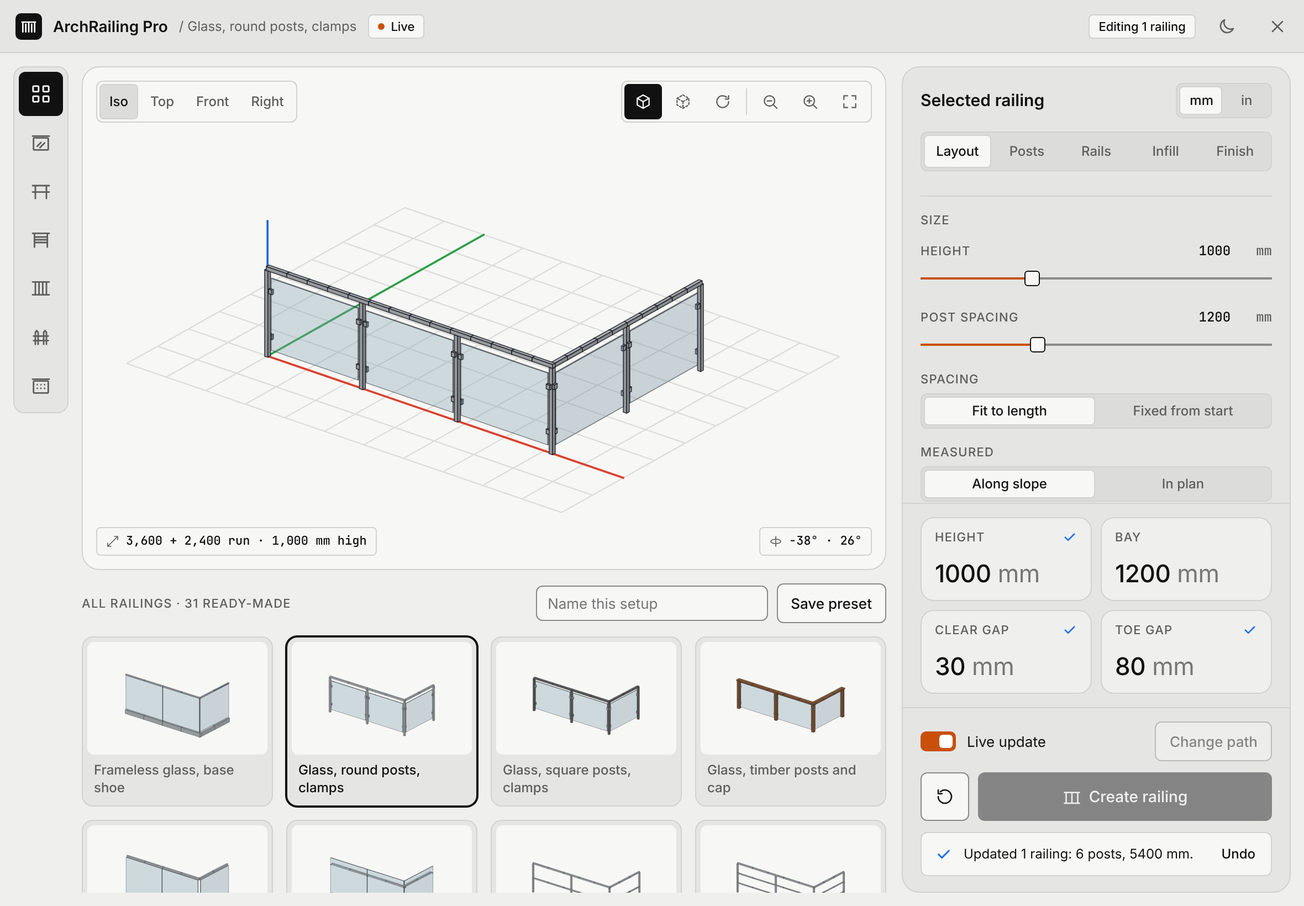
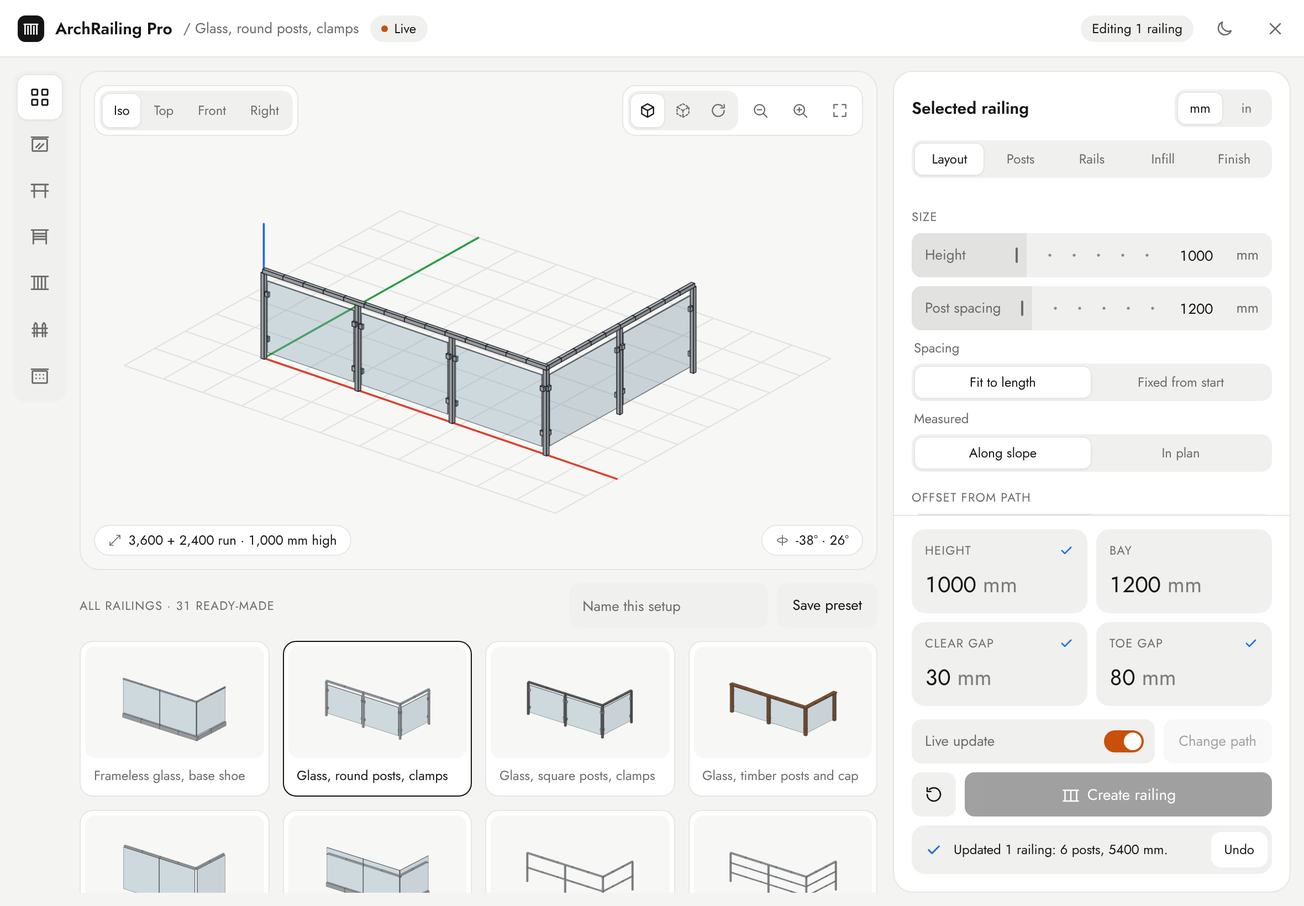
Restyle panel to Parametric Builder UI v2
White surfaces on a grey ground, borderless filled rows, Century Gothic
with Jost fallback, softer radii, one-line row sliders with editable
values, pill switches in rows, segmented wells with a raised selection,
round colour swatches, framed viewport toolbars and pill chips.

Claude-Session: https://claude.ai/code/session_018M2FVZAa4RqU1jv5ZMEc26

diff --git a/sketchup/arch_railing_pro/src/arch_railing_pro/ui/dialog.html b/sketchup/arch_railing_pro/src/arch_railing_pro/ui/dialog.html
@@ -4,41 +4,49 @@
 <meta charset="utf-8">
 <meta name="viewport" content="width=device-width,initial-scale=1">
 <title>ArchRailing Pro</title>
-<link href="https://fonts.googleapis.com/css2?family=Inter:wght@400;500;600&family=JetBrains+Mono:wght@400;500&display=swap" rel="stylesheet">
+<link href="https://fonts.googleapis.com/css2?family=Jost:wght@400;500;600&display=swap" rel="stylesheet">
 <link rel="stylesheet" href="tokens.css">
 <style>
   *,*::before,*::after{box-sizing:border-box}
   html,body{height:100%}
-  body{margin:0;background:var(--bg);color:var(--ink);font:400 13px/18px var(--sans);display:flex;flex-direction:column;overflow:hidden}
+  body{margin:0;background:var(--bg);color:var(--ink);font:400 13px/18px var(--sans);font-variant-numeric:tabular-nums;display:flex;flex-direction:column;overflow:hidden}
   button,input,select{font:inherit;color:inherit}
   button{cursor:pointer}
   :focus-visible{outline:2px solid var(--accent);outline-offset:2px}
   svg.i{width:18px;height:18px;fill:none;stroke:currentColor;stroke-width:1.7;stroke-linecap:round;stroke-linejoin:round;flex:none}
   .hide{display:none!important}
-  .eyebrow{font-size:11px;line-height:14px;font-weight:500;letter-spacing:.06em;text-transform:uppercase;color:var(--muted)}
-  .mono{font-family:var(--mono)}
+  .eyebrow{font-size:11px;line-height:14px;letter-spacing:.06em;text-transform:uppercase;color:var(--muted)}
+  .cap{font-size:12px;line-height:16px;color:var(--muted)}
+
+  /* wells: a field-filled track with a raised selected item */
+  .well{display:flex;gap:2px;padding:3px;background:var(--field);border-radius:10px}
+  .well button{flex:1;height:28px;min-width:30px;padding:0 10px;border:0;border-radius:7px;background:transparent;color:var(--muted);font-size:12px;white-space:nowrap;display:grid;place-items:center}
+  .well button:hover{color:var(--ink)}
+  .well button[aria-pressed=true],.well button[aria-selected=true]{background:var(--raised);color:var(--ink);box-shadow:var(--sel-shadow)}
+  .frame{display:flex;align-items:center;gap:4px;padding:4px;background:var(--surface);border:1px solid var(--line);border-radius:var(--r-md)}
+  .frame .ib{width:32px;height:32px;border-radius:7px}
 
   /* header */
-  .hd{flex:none;display:flex;align-items:center;gap:10px;height:48px;padding:0 6px 0 14px;background:var(--surface);border-bottom:1px solid var(--line)}
-  .mark{width:24px;height:24px;border-radius:5px;background:var(--ink);color:var(--inv);display:grid;place-items:center;flex:none}
+  .hd{flex:none;display:flex;align-items:center;gap:10px;height:52px;padding:0 8px 0 16px;background:var(--surface);border-bottom:1px solid var(--line)}
+  .mark{width:24px;height:24px;border-radius:7px;background:var(--ink);color:var(--inv);display:grid;place-items:center;flex:none}
   .mark svg{width:16px;height:16px;fill:none;stroke:currentColor;stroke-width:2;stroke-linecap:square}
-  .hd h1{margin:0;font-size:14px;line-height:20px;font-weight:600;white-space:nowrap}
-  .crumb{font-size:12px;color:var(--muted);white-space:nowrap;overflow:hidden;text-overflow:ellipsis;min-width:0}
-  .badge{display:inline-flex;align-items:center;gap:6px;height:22px;padding:0 8px;border:1px solid var(--line);border-radius:var(--r-xs);background:var(--raised);font-size:11px;font-weight:500;white-space:nowrap}
+  .hd h1{margin:0;font-size:15px;line-height:20px;font-weight:600;white-space:nowrap}
+  .crumb{color:var(--muted);white-space:nowrap;overflow:hidden;text-overflow:ellipsis;min-width:0}
+  .badge{display:inline-flex;align-items:center;gap:6px;height:24px;padding:0 10px;border-radius:12px;background:var(--field);font-size:12px;white-space:nowrap}
   .badge .dot{width:6px;height:6px;border-radius:3px;background:var(--accent)}
   .sp{flex:1}
   .ib{width:36px;height:36px;border:0;background:transparent;color:var(--muted);border-radius:var(--r-sm);display:grid;place-items:center}
-  .ib:hover{background:var(--sunken);color:var(--ink)}
+  .ib:hover{background:var(--field);color:var(--ink)}
 
-  /* body: rail | main | aside */
+  /* body: rail | main | side */
   .bd{flex:1;min-height:0;display:flex;gap:12px;padding:12px;overflow:hidden}
-  .rail{flex:none;align-self:flex-start;display:flex;flex-direction:column;gap:4px;padding:4px;background:var(--surface);border:1px solid var(--line);border-radius:var(--r-md)}
+  .rail{flex:none;align-self:flex-start;display:flex;flex-direction:column;gap:2px;padding:4px;background:var(--field);border-radius:var(--r-md)}
   .rail button{width:40px;height:40px;border:0;border-radius:var(--r-sm);background:transparent;color:var(--muted);display:grid;place-items:center}
-  .rail button:hover{background:var(--sunken);color:var(--ink)}
-  .rail button[aria-pressed=true]{background:var(--ink);color:var(--inv)}
+  .rail button:hover{color:var(--ink)}
+  .rail button[aria-pressed=true]{background:var(--raised);color:var(--ink);box-shadow:var(--sel-shadow)}
   .rail svg.i{width:20px;height:20px}
   .main{flex:1 1 560px;min-width:0;overflow-y:auto;display:flex;flex-direction:column;gap:12px;padding-right:2px}
-  .side{flex:0 0 352px;min-width:0;display:flex;flex-direction:column;background:var(--surface);border:1px solid var(--line);border-radius:var(--r-lg);overflow:hidden}
+  .side{flex:0 0 360px;min-width:0;display:flex;flex-direction:column;background:var(--surface);border:1px solid var(--line);border-radius:var(--r-lg);overflow:hidden}
 
   /* viewport */
   .vp{position:relative;background:var(--viewport);border:1px solid var(--line);border-radius:var(--r-lg);overflow:hidden;flex:none}
@@ -47,95 +55,89 @@
   .ov{position:absolute;left:12px;right:12px;display:flex;justify-content:space-between;gap:8px;flex-wrap:wrap;pointer-events:none}
   .ov.t{top:12px}.ov.b{bottom:12px;align-items:flex-end}
   .ov>*{pointer-events:auto}
-  .tb{display:flex;gap:2px;padding:2px;background:var(--raised);border:1px solid var(--line);border-radius:var(--r-sm)}
-  .tb button{height:32px;min-width:32px;padding:0 8px;border:1px solid transparent;border-radius:var(--r-xs);background:transparent;color:var(--muted);font-size:12px;font-weight:500;display:grid;place-items:center}
-  .tb button:hover{color:var(--ink)}
-  .tb button.v[aria-pressed=true]{background:var(--sunken);border-color:var(--line);color:var(--ink)}
-  .tb button.t[aria-pressed=true]{background:var(--ink);color:var(--inv)}
-  .tb svg.i{width:16px;height:16px}
-  .tb .div{width:1px;margin:4px 2px;background:var(--line)}
-  .chip{display:inline-flex;align-items:center;gap:6px;height:26px;padding:0 8px;background:var(--raised);border:1px solid var(--line);border-radius:var(--r-xs);font:500 11px/1 var(--mono);color:var(--ink);white-space:nowrap}
+  .vp .well button{height:30px;flex:none}
+  .vp .well button.t{width:30px;min-width:30px;padding:0}
+  .vp .well svg.i,.frame .ib svg.i{width:16px;height:16px}
+  .chip{display:inline-flex;align-items:center;gap:6px;height:28px;padding:0 12px;background:var(--surface);border:1px solid var(--line);border-radius:14px;font-size:12px;color:var(--ink);white-space:nowrap}
   .chip svg.i{width:12px;height:12px;color:var(--muted)}
 
   /* presets */
   .ph{display:flex;align-items:center;gap:8px;flex-wrap:wrap}
   .ph .eyebrow{flex:1;min-width:120px}
-  .fld{height:32px;padding:0 10px;background:var(--raised);border:1px solid var(--strong);border-radius:var(--r-sm);min-width:0}
-  .fld:hover{border-color:var(--ink)}
+  .fld{height:var(--row);padding:0 12px;background:var(--field);border:0;border-radius:var(--r-sm);min-width:0}
+  .fld::placeholder{color:var(--muted)}
   .tiles{display:grid;grid-template-columns:repeat(auto-fill,minmax(150px,1fr));gap:12px}
-  .tile{display:flex;flex-direction:column;gap:6px;padding:4px 4px 8px;background:var(--surface);border:1px solid var(--line);border-radius:var(--r-md);color:var(--muted);font-size:12px;font-weight:500;text-align:left;min-width:0}
+  .tile{display:flex;flex-direction:column;gap:8px;padding:4px 4px 10px;background:var(--surface);border:1px solid var(--line);border-radius:var(--r-md);color:var(--muted);font-size:12px;text-align:left;min-width:0}
   .tile:hover{color:var(--ink);border-color:var(--strong)}
-  .tile[aria-pressed=true]{border-color:var(--ink);box-shadow:0 0 0 1px var(--ink);color:var(--ink)}
+  .tile[aria-pressed=true]{border-color:var(--ink);color:var(--ink)}
   .tile svg{display:block;width:100%;height:auto;aspect-ratio:16/10;background:var(--viewport);border-radius:var(--r-sm)}
-  .tile span{padding:0 6px;line-height:16px}
+  .tile span{padding:0 8px;line-height:16px}
 
   /* side panel */
-  .sh{flex:none;display:flex;align-items:center;justify-content:space-between;gap:12px;padding:14px 16px 12px}
+  .sh{flex:none;display:flex;align-items:center;justify-content:space-between;gap:12px;padding:16px 16px 12px}
   .sh h2{margin:0;font-size:15px;line-height:20px;font-weight:600;white-space:nowrap;overflow:hidden;text-overflow:ellipsis}
-  .seg{display:flex;gap:2px;padding:2px;background:var(--sunken);border:1px solid var(--line);border-radius:var(--r-sm)}
-  .seg button{flex:1;height:26px;min-width:38px;padding:0 9px;border:1px solid transparent;border-radius:var(--r-xs);background:transparent;color:var(--muted);font-size:12px;font-weight:500;white-space:nowrap}
-  .seg button:hover{color:var(--ink)}
-  .seg button[aria-pressed=true],.seg button[aria-selected=true]{background:var(--raised);border-color:var(--line);color:var(--ink)}
-  .tabs{flex:none;margin:0 16px 4px}
-  .tabs button{height:30px}
+  .sh .well button{flex:none;min-width:40px}
+  .tabs{flex:none;margin:0 16px 8px}
   .pane{flex:1;min-height:0;overflow-y:auto;padding:4px 16px 8px}
-  .grp{margin:14px 0 10px;padding-top:14px;border-top:1px solid var(--line)}
-  .grp:first-child{margin-top:6px;padding-top:0;border-top:0}
-  .rows{display:flex;flex-direction:column;gap:14px}
+  .grp{margin:16px 0 8px}
+  .grp:first-child{margin-top:4px}
+  .rows{display:flex;flex-direction:column;gap:8px}
 
-  .row{display:flex;flex-direction:column;gap:4px}
-  .row .top{display:flex;justify-content:space-between;align-items:center;gap:8px}
-  .row .val{display:flex;align-items:center;gap:3px;font:500 12px/16px var(--mono)}
-  .row .val input{width:76px;height:22px;padding:0 4px;text-align:right;background:transparent;border:1px solid transparent;border-radius:var(--r-xs);font:500 12px/16px var(--mono)}
-  .row .val input:hover{border-color:var(--line)}
-  .row .val input:focus{border-color:var(--strong);background:var(--raised);outline:0}
-  .row .val i{font-style:normal;color:var(--muted)}
-  .sl{position:relative;display:block;height:20px}
-  .sl .tr{position:absolute;left:0;right:0;top:9px;height:2px;background:var(--strong)}
-  .sl .fi{position:absolute;left:0;top:9px;height:2px;background:var(--accent)}
-  .sl .th{position:absolute;top:3px;width:14px;height:14px;margin-left:-7px;border-radius:3px;background:var(--raised);border:1px solid var(--ink)}
-  .sl input{position:absolute;inset:0;width:100%;height:100%;margin:0;opacity:0;cursor:pointer}
-  .sl:focus-within .th{outline:2px solid var(--accent);outline-offset:2px}
+  /* row slider: one 40px filled row, label left, value right, the fill is the slider */
+  .rs{position:relative;height:var(--row);border-radius:var(--r-sm);background:var(--field);overflow:hidden;cursor:ew-resize}
+  .rs:focus-within{box-shadow:0 0 0 2px var(--accent)}
+  .rs .fi{position:absolute;left:0;top:0;bottom:0;background:var(--field-strong)}
+  .rs .dots{position:absolute;right:96px;top:18px;height:4px;background-image:radial-gradient(circle,var(--strong) 1.1px,transparent 1.5px);background-size:22px 4px;background-repeat:repeat-x}
+  .rs .hb{position:absolute;top:13px;bottom:13px;width:2px;margin-left:-10px;border-radius:1px;background:var(--muted)}
+  .rs label{position:absolute;left:12px;top:11px;color:var(--muted);pointer-events:none;white-space:nowrap;max-width:60%;overflow:hidden;text-overflow:ellipsis}
+  .rs input[type=range]{position:absolute;inset:0;width:100%;height:100%;margin:0;opacity:0;cursor:ew-resize}
+  .rs .val{position:absolute;right:6px;top:4px;height:32px;display:flex;align-items:center;gap:2px;z-index:1}
+  .rs .val input{width:64px;height:28px;padding:0 4px;text-align:right;background:transparent;border:0;border-radius:7px;font-variant-numeric:tabular-nums}
+  .rs .val input:hover{background:var(--surface)}
+  .rs .val input:focus{background:var(--surface);outline:0}
+  .rs .val i{font-style:normal;color:var(--muted);padding-right:6px}
 
-  .opts{display:flex;flex-wrap:wrap;gap:6px 16px}
-  .sw{display:flex;align-items:center;gap:10px;height:28px;padding:0;border:0;background:transparent;font-size:13px;color:var(--ink);text-align:left}
-  .sw .k{position:relative;flex:none;width:32px;height:18px;border-radius:5px;background:var(--sunken);border:1px solid var(--strong)}
-  .sw .k::after{content:"";position:absolute;top:2px;left:2px;width:12px;height:12px;border-radius:3px;background:var(--muted);transition:left .12s}
-  .sw[aria-checked=true] .k{background:var(--accent);border-color:var(--accent)}
-  .sw[aria-checked=true] .k::after{left:16px;background:var(--accent-ink)}
+  /* switch rows, choice wells, swatch and select rows */
+  .opts{display:grid;grid-template-columns:repeat(2,minmax(0,1fr));gap:8px}
+  .sw{display:flex;align-items:center;justify-content:space-between;gap:8px;height:var(--row);padding:0 10px 0 12px;border:0;border-radius:var(--r-sm);background:var(--field);color:var(--muted);text-align:left;min-width:0}
+  .sw:hover{color:var(--ink)}
+  .sw .k{position:relative;flex:none;width:36px;height:20px;border-radius:10px;background:var(--sunken)}
+  .sw .k::after{content:"";position:absolute;top:2px;left:2px;width:16px;height:16px;border-radius:8px;background:var(--strong);transition:left .12s}
+  .sw[aria-checked=true] .k{background:var(--accent)}
+  .sw[aria-checked=true] .k::after{left:18px;background:var(--accent-ink)}
   .field{display:flex;flex-direction:column;gap:6px}
-  .field select{height:32px;padding:0 8px;background:var(--raised);border:1px solid var(--strong);border-radius:var(--r-sm)}
-  .sws{display:grid;grid-template-columns:repeat(5,minmax(0,1fr));gap:8px}
-  .swc{display:flex;flex-direction:column;align-items:center;gap:4px;font-size:11px;color:var(--muted)}
-  .swc label{position:relative;display:block;width:100%;height:32px;padding:3px;border:1px solid var(--line);border-radius:var(--r-sm);background:var(--raised);cursor:pointer}
-  .swc label:hover{border-color:var(--ink)}
-  .swc label span{display:block;width:100%;height:100%;border-radius:3px}
-  .swc input{position:absolute;inset:0;opacity:0;width:100%;height:100%;cursor:pointer}
+  .field>.cap{padding-left:2px}
+  .rowf{display:flex;align-items:center;justify-content:space-between;gap:8px;height:var(--row);padding:0 5px 0 12px;border-radius:var(--r-sm);background:var(--field);color:var(--muted)}
+  .rowf select{max-width:62%;height:30px;padding:0 6px;border:0;border-radius:7px;background:transparent;color:var(--ink);text-align:right}
+  .rowf select:hover{background:var(--surface)}
+  .swr{position:relative;width:30px;height:30px;padding:3px;border-radius:15px;border:2px solid var(--line);cursor:pointer;flex:none}
+  .swr:hover{border-color:var(--ink)}
+  .swr span{display:block;width:100%;height:100%;border-radius:50%}
+  .swr input{position:absolute;inset:0;opacity:0;width:100%;height:100%;cursor:pointer}
 
-  /* checks */
-  .stats{flex:none;display:grid;grid-template-columns:repeat(2,minmax(0,1fr));gap:8px;padding:12px 16px;border-top:1px solid var(--line)}
-  .card{display:flex;flex-direction:column;justify-content:space-between;gap:10px;min-height:76px;padding:10px 12px;background:var(--bg);border:1px solid var(--line);border-radius:12px;min-width:0}
+  /* readout cards */
+  .stats{flex:none;display:grid;grid-template-columns:repeat(2,minmax(0,1fr));gap:8px;padding:12px 16px 0;border-top:1px solid var(--line)}
+  .card{display:flex;flex-direction:column;justify-content:space-between;gap:12px;min-height:76px;padding:12px;background:var(--field);border-radius:var(--r-md);min-width:0}
   .card .h{display:flex;justify-content:space-between;align-items:flex-start;gap:6px}
-  .card .n{font-size:22px;line-height:28px;font-weight:500;letter-spacing:-.01em;white-space:nowrap;overflow:hidden;text-overflow:ellipsis}
-  .card .n i{font-style:normal;font-weight:400;color:var(--faint)}
+  .card .n{font-size:20px;line-height:26px;white-space:nowrap;overflow:hidden;text-overflow:ellipsis}
+  .card .n i{font-style:normal;color:var(--faint)}
   .card svg{width:14px;height:14px;fill:none;stroke-width:2.3;stroke-linecap:round;stroke-linejoin:round;flex:none}
   .card .ok{stroke:var(--ok)}.card .wn{stroke:var(--warn)}
 
   /* actions */
-  .act{flex:none;display:flex;flex-direction:column;gap:10px;padding:12px 16px 14px;border-top:1px solid var(--line)}
+  .act{flex:none;display:flex;flex-direction:column;gap:8px;padding:12px 16px 16px}
   .act .r{display:flex;gap:8px;align-items:center}
-  .btn{height:36px;padding:0 12px;border:1px solid var(--strong);border-radius:var(--r-sm);background:var(--raised);color:var(--ink);font-size:13px;font-weight:500;display:inline-flex;align-items:center;justify-content:center;gap:6px;white-space:nowrap}
-  .btn:hover{border-color:var(--ink)}
-  .btn:disabled{opacity:.45;pointer-events:none}
-  .btn.pri{flex:1;height:44px;border:0;background:var(--ink);color:var(--inv);font-size:14px}
-  .btn.pri:hover{opacity:.88}
-  .btn.sq{width:44px;height:44px;padding:0;flex:none}
-  .btn.f1{flex:1}
-  .toast{display:flex;align-items:center;gap:10px;min-height:40px;padding:4px 4px 4px 12px;background:var(--raised);border:1px solid var(--line);border-radius:var(--r-sm);font-size:12px;line-height:16px}
+  .act .sw{flex:1;white-space:nowrap}
+  .btn{height:var(--row);padding:0 14px;border:0;border-radius:var(--r-sm);background:var(--field);color:var(--ink);display:inline-flex;align-items:center;justify-content:center;gap:6px;white-space:nowrap}
+  .btn:hover{background:var(--field-strong)}
+  .btn:disabled{opacity:.4;pointer-events:none}
+  .btn.pri{flex:1;background:var(--ink);color:var(--inv);font-size:14px}
+  .btn.pri:hover{opacity:.86;background:var(--ink)}
+  .btn.sq{width:var(--row);padding:0;flex:none}
+  .toast{display:flex;align-items:center;gap:10px;min-height:44px;padding:4px 4px 4px 12px;background:var(--field);border-radius:var(--r-md);font-size:12px;line-height:16px}
   .toast svg{width:16px;height:16px;fill:none;stroke-width:2.3;stroke-linecap:round;stroke-linejoin:round;flex:none}
   .toast .msg{flex:1;min-width:0}
-  .toast .u{height:28px;padding:0 10px;border:0;border-radius:var(--r-sm);background:transparent;font-size:12px;font-weight:500}
-  .toast .u:hover{background:var(--sunken)}
+  .toast .u{height:32px;padding:0 12px;border:0;border-radius:var(--r-sm);background:var(--surface);font-size:12px}
 
   @media (max-width:760px){
     body{overflow:auto;height:auto}
@@ -168,15 +170,15 @@
     <section class="vp" aria-label="Live preview">
       <svg class="scene" id="scene" viewBox="0 0 640 400" role="img" aria-label="3D preview of the railing, drag to orbit"></svg>
       <div class="ov t">
-        <div class="tb" role="group" aria-label="Standard views" id="views"></div>
-        <div class="tb" role="group" aria-label="Display">
+        <div class="frame"><div class="well" role="group" aria-label="Standard views" id="views"></div></div>
+        <div class="frame"><div class="well" role="group" aria-label="Display">
           <button class="t" type="button" id="tg-edges" aria-pressed="true" aria-label="Edges" title="Edges"><svg class="i" viewBox="0 0 24 24"><path d="M12 3l8 4.5v9L12 21l-8-4.5v-9z"/><path d="M12 12l8-4.5M12 12v9M12 12L4 7.5"/></svg></button>
           <button class="t" type="button" id="tg-xray" aria-pressed="false" aria-label="X-ray" title="X-ray"><svg class="i" viewBox="0 0 24 24" stroke-dasharray="2.5 2.5"><path d="M12 3l8 4.5v9L12 21l-8-4.5v-9z"/><path d="M12 12l8-4.5M12 12v9M12 12L4 7.5"/></svg></button>
           <button class="t" type="button" id="tg-spin" aria-pressed="false" aria-label="Auto-rotate" title="Auto-rotate"><svg class="i" viewBox="0 0 24 24"><path d="M20 12a8 8 0 1 1-2.6-5.9"/><path d="M20 4v4.5h-4.5"/></svg></button>
-          <span class="div" aria-hidden="true"></span>
-          <button type="button" id="z-out" aria-label="Zoom out" title="Zoom out"><svg class="i" viewBox="0 0 24 24"><circle cx="11" cy="11" r="7"/><path d="M8 11h6M16.5 16.5L21 21"/></svg></button>
-          <button type="button" id="z-in" aria-label="Zoom in" title="Zoom in"><svg class="i" viewBox="0 0 24 24"><circle cx="11" cy="11" r="7"/><path d="M8 11h6M11 8v6M16.5 16.5L21 21"/></svg></button>
-          <button type="button" id="z-fit" aria-label="Zoom to fit" title="Zoom to fit"><svg class="i" viewBox="0 0 24 24"><path d="M4 9V4h5M20 9V4h-5M4 15v5h5M20 15v5h-5"/></svg></button>
+        </div>
+          <button class="ib" type="button" id="z-out" aria-label="Zoom out" title="Zoom out"><svg class="i" viewBox="0 0 24 24"><circle cx="11" cy="11" r="7"/><path d="M8 11h6M16.5 16.5L21 21"/></svg></button>
+          <button class="ib" type="button" id="z-in" aria-label="Zoom in" title="Zoom in"><svg class="i" viewBox="0 0 24 24"><circle cx="11" cy="11" r="7"/><path d="M8 11h6M11 8v6M16.5 16.5L21 21"/></svg></button>
+          <button class="ib" type="button" id="z-fit" aria-label="Zoom to fit" title="Zoom to fit"><svg class="i" viewBox="0 0 24 24"><path d="M4 9V4h5M20 9V4h-5M4 15v5h5M20 15v5h-5"/></svg></button>
         </div>
       </div>
       <div class="ov b">
@@ -197,18 +199,17 @@
   <aside class="side" aria-label="Parameters">
     <div class="sh">
       <h2 id="ptitle2">Railing</h2>
-      <div class="seg" role="group" aria-label="Units">
+      <div class="well" role="group" aria-label="Units">
         <button type="button" id="u-mm" aria-pressed="true">mm</button>
         <button type="button" id="u-in" aria-pressed="false">in</button>
       </div>
     </div>
-    <div class="seg tabs" role="tablist" id="tabs"></div>
+    <div class="well tabs" role="tablist" id="tabs"></div>
     <div class="pane" id="pane"></div>
     <div class="stats" id="stats"></div>
     <div class="act">
       <div class="r">
-        <button type="button" class="sw" role="switch" id="live" aria-checked="true"><span class="k" aria-hidden="true"></span>Live update</button>
-        <span class="sp"></span>
+        <button type="button" class="sw" role="switch" id="live" aria-checked="true">Live update<span class="k" aria-hidden="true"></span></button>
         <button class="btn" type="button" id="b-path" title="Select one railing and its new edges">Change path</button>
       </div>
       <div class="r">

diff --git a/sketchup/arch_railing_pro/src/arch_railing_pro/ui/dialog.js b/sketchup/arch_railing_pro/src/arch_railing_pro/ui/dialog.js
@@ -155,20 +155,20 @@
   function itemHtml(f) {
     var id = 'f-' + f.k;
     if (f.t === 'num') {
-      return '<div class="row" data-f="' + f.k + '"><div class="top"><label class="eyebrow" for="' + id + '-n">' + esc(f.l) + '</label>' +
-        '<span class="val"><input id="' + id + '-n" type="number" step="any" inputmode="decimal"><i data-unit="' + f.k + '"></i></span></div>' +
-        '<span class="sl"><span class="tr"></span><span class="fi"></span><span class="th"></span>' +
-        '<input id="' + id + '" type="range" min="' + f.r[0] + '" max="' + f.r[1] + '" step="' + f.r[2] + '" aria-label="' + esc(f.l) + '"></span></div>';
+      return '<div class="rs" data-f="' + f.k + '"><span class="fi"></span><span class="dots"></span><span class="hb"></span>' +
+        '<label for="' + id + '">' + esc(f.l) + '</label>' +
+        '<input id="' + id + '" type="range" min="' + f.r[0] + '" max="' + f.r[1] + '" step="' + f.r[2] + '">' +
+        '<span class="val"><input id="' + id + '-n" type="number" step="any" inputmode="decimal" aria-label="' + esc(f.l) + ' value"><i data-unit="' + f.k + '"></i></span></div>';
     }
-    if (f.t === 'bool') return '<button type="button" class="sw" role="switch" id="' + id + '" data-f="' + f.k + '" aria-checked="false"><span class="k" aria-hidden="true"></span>' + esc(f.l) + '</button>';
+    if (f.t === 'bool') return '<button type="button" class="sw" role="switch" id="' + id + '" data-f="' + f.k + '" aria-checked="false">' + esc(f.l) + '<span class="k" aria-hidden="true"></span></button>';
     if (f.t === 'seg') {
-      return '<div class="field" data-f="' + f.k + '"><span class="eyebrow">' + esc(f.l) + '</span><div class="seg" role="group" aria-label="' + esc(f.l) + '" id="' + id + '">' +
+      return '<div class="field" data-f="' + f.k + '"><span class="cap">' + esc(f.l) + '</span><div class="well" role="group" aria-label="' + esc(f.l) + '" id="' + id + '">' +
         f.o.map(function (o) { return '<button type="button" data-v="' + o[0] + '" aria-pressed="false">' + esc(o[1]) + '</button>'; }).join('') + '</div></div>';
     }
     if (f.t === 'color') {
-      return '<div class="swc" data-f="' + f.k + '"><label title="' + esc(f.l) + '"><span id="' + id + '-s"></span><input type="color" id="' + id + '" aria-label="' + esc(f.l) + ' colour"></label>' + esc(f.l) + '</div>';
+      return '<div class="rowf" data-f="' + f.k + '"><span>' + esc(f.l) + '</span><label class="swr" title="' + esc(f.l) + '"><span id="' + id + '-s"></span><input type="color" id="' + id + '" aria-label="' + esc(f.l) + ' colour"></label></div>';
     }
-    return '<label class="field" data-f="' + f.k + '"><span class="eyebrow">' + esc(f.l) + '</span><select id="' + id + '" data-comp="1"></select></label>';
+    return '<label class="rowf" data-f="' + f.k + '"><span>' + esc(f.l) + '</span><select id="' + id + '" data-comp="1"></select></label>';
   }
 
   // Consecutive switches and colour swatches share one wrapping row.
@@ -176,13 +176,13 @@
     var out = '', group = null, buf = [];
     function flush() {
       if (!buf.length) return;
-      out += group === 'bool' ? '<div class="opts">' + buf.join('') + '</div>' : group === 'color' ? '<div class="sws">' + buf.join('') + '</div>' : buf.join('');
+      out += group === 'bool' ? '<div class="opts">' + buf.join('') + '</div>' : buf.join('');
       buf = [];
     }
     out += '<div class="rows">';
     t.items.forEach(function (it, i) {
       if (it.g) { flush(); group = null; out += '</div><p class="eyebrow grp" data-g="' + t.id + i + '">' + esc(it.g) + '</p><div class="rows">'; return; }
-      var kind = it.t === 'bool' || it.t === 'color' ? it.t : 'other';
+      var kind = it.t === 'bool' ? 'bool' : 'other';
       if (kind !== group) { flush(); group = kind; }
       buf.push(itemHtml(it));
     });
@@ -243,9 +243,10 @@
         var lo = f.r[0], hi = f.r[1];
         el.value = clamp(v, lo, hi);
         var pct = (clamp(v, lo, hi) - lo) / (hi - lo) * 100;
-        var sl = el.parentNode;
-        sl.querySelector('.fi').style.width = pct + '%';
-        sl.querySelector('.th').style.left = pct + '%';
+        var rs = el.parentNode;
+        rs.querySelector('.fi').style.width = pct + '%';
+        rs.querySelector('.hb').style.left = pct + '%';
+        rs.querySelector('.dots').style.left = 'calc(max(' + pct + '%, 96px) + 10px)';
         var n = $('f-' + k + '-n');
         if (document.activeElement !== n) n.value = shown(f, v);
         document.querySelector('[data-unit="' + k + '"]').textContent = unitOf(f);

diff --git a/sketchup/arch_railing_pro/src/arch_railing_pro/ui/tokens.css b/sketchup/arch_railing_pro/src/arch_railing_pro/ui/tokens.css
@@ -1,31 +1,29 @@
-/* Parametric Builder UI - tokens. Light by default, dark from the system or the header toggle. */
+/* Parametric Builder UI v2 - tokens. Light by default, dark from the system or the header toggle. */
 :root{
-  --page:#e9e9e8;--bg:#efefee;--surface:#e5e5e4;--raised:#f7f7f6;--sunken:#dcdcdb;
-  --line:#d2d2d0;--strong:#8a8a87;--ink:#111111;--muted:#5e5e5c;--faint:#767673;--inv:#ffffff;
-  --accent:#c9500a;--accent-ink:#ffffff;--accent-soft:#f6dccb;
+  --page:#ebebea;--bg:#f4f4f3;--surface:#ffffff;--field:#f0f0ef;--field-strong:#e2e2e0;--raised:#ffffff;--sunken:#e9e9e7;
+  --line:#e6e6e4;--strong:#8a8a87;--ink:#141414;--muted:#6b6b69;--faint:#7c7c79;--inv:#ffffff;
+  --accent:#c9500a;--accent-ink:#ffffff;
   --ok:#1f6feb;--warn:#9a6700;--danger:#c2261c;
-  --viewport:#f7f7f6;--edge:#1b1f24;--grid:#dcdcda;
+  --viewport:#f7f7f6;--edge:#1b1f24;--grid:#e2e2e0;
   --axis-x:#d9412e;--axis-y:#2e9e48;--axis-z:#2266d6;
-  --sans:Inter,system-ui,-apple-system,"Segoe UI",sans-serif;
-  --mono:"JetBrains Mono",ui-monospace,Menlo,Consolas,monospace;
-  --r-xs:4px;--r-sm:6px;--r-md:10px;--r-lg:16px;
+  --sel-shadow:0 0 0 1px #e6e6e4,0 1px 2px rgba(20,20,20,.08);
+  --sans:"Century Gothic",CenturyGothic,Jost,"Avenir Next",system-ui,sans-serif;
+  --r-xs:6px;--r-sm:9px;--r-md:12px;--r-lg:18px;--row:40px;--row-sm:32px;
   color-scheme:light;
 }
 @media (prefers-color-scheme:dark){
   :root:not([data-theme="light"]){
-    --page:#0a0a0b;--bg:#111112;--surface:#1b1b1d;--raised:#252527;--sunken:#141415;
-    --line:#2d2d30;--strong:#737378;--ink:#f2f2f0;--muted:#a6a6a3;--faint:#85857f;--inv:#111111;
-    --accent:#ff8a3d;--accent-ink:#111111;--accent-soft:#3a2416;
-    --ok:#5aa2ff;--warn:#f2c14e;--danger:#ff6b5e;
-    --viewport:#161618;--edge:#0a0a0b;--grid:#2a2a2e;
+    --page:#0b0b0c;--bg:#141415;--surface:#1f1f21;--field:#2a2a2c;--field-strong:#38383b;--raised:#404044;--sunken:#18181a;
+    --line:#2c2c2f;--strong:#76767a;--ink:#f1f1ef;--muted:#a1a1a0;--faint:#88888a;--inv:#141414;
+    --accent:#ff8a3d;--accent-ink:#141414;--ok:#5aa2ff;--warn:#f2c14e;--danger:#ff6b5e;
+    --viewport:#18181a;--edge:#0a0a0b;--grid:#28282b;--sel-shadow:0 1px 2px rgba(0,0,0,.4);
     color-scheme:dark;
   }
 }
 :root[data-theme="dark"]{
-  --page:#0a0a0b;--bg:#111112;--surface:#1b1b1d;--raised:#252527;--sunken:#141415;
-  --line:#2d2d30;--strong:#737378;--ink:#f2f2f0;--muted:#a6a6a3;--faint:#85857f;--inv:#111111;
-  --accent:#ff8a3d;--accent-ink:#111111;--accent-soft:#3a2416;
-  --ok:#5aa2ff;--warn:#f2c14e;--danger:#ff6b5e;
-  --viewport:#161618;--edge:#0a0a0b;--grid:#2a2a2e;
+  --page:#0b0b0c;--bg:#141415;--surface:#1f1f21;--field:#2a2a2c;--field-strong:#38383b;--raised:#404044;--sunken:#18181a;
+  --line:#2c2c2f;--strong:#76767a;--ink:#f1f1ef;--muted:#a1a1a0;--faint:#88888a;--inv:#141414;
+  --accent:#ff8a3d;--accent-ink:#141414;--ok:#5aa2ff;--warn:#f2c14e;--danger:#ff6b5e;
+  --viewport:#18181a;--edge:#0a0a0b;--grid:#28282b;--sel-shadow:0 1px 2px rgba(0,0,0,.4);
   color-scheme:dark;
 }

diff --git a/sketchup/arch_railing_pro/README.md b/sketchup/arch_railing_pro/README.md
@@ -71,7 +71,7 @@ src/
     generator.rb               path parsing, arc-length layout, sweeps, component placement
     ui_dialog.rb               HtmlDialog bridge (JS <-> Ruby callbacks, saved presets)
     defaults.rb                parameter schema, validation, the 31 ready-made railings
-    ui/                        dialog.html, dialog.js, tokens.css (Parametric Builder UI look)
+    ui/                        dialog.html, dialog.js, tokens.css (Parametric Builder UI v2 look)
     icons/                     toolbar icons (SVG for Windows, PDF for macOS, PNG fallback), logo
 test/                          SketchUp API mock and the generator test run
 build.sh                       packs src/ into release/*.rbz
